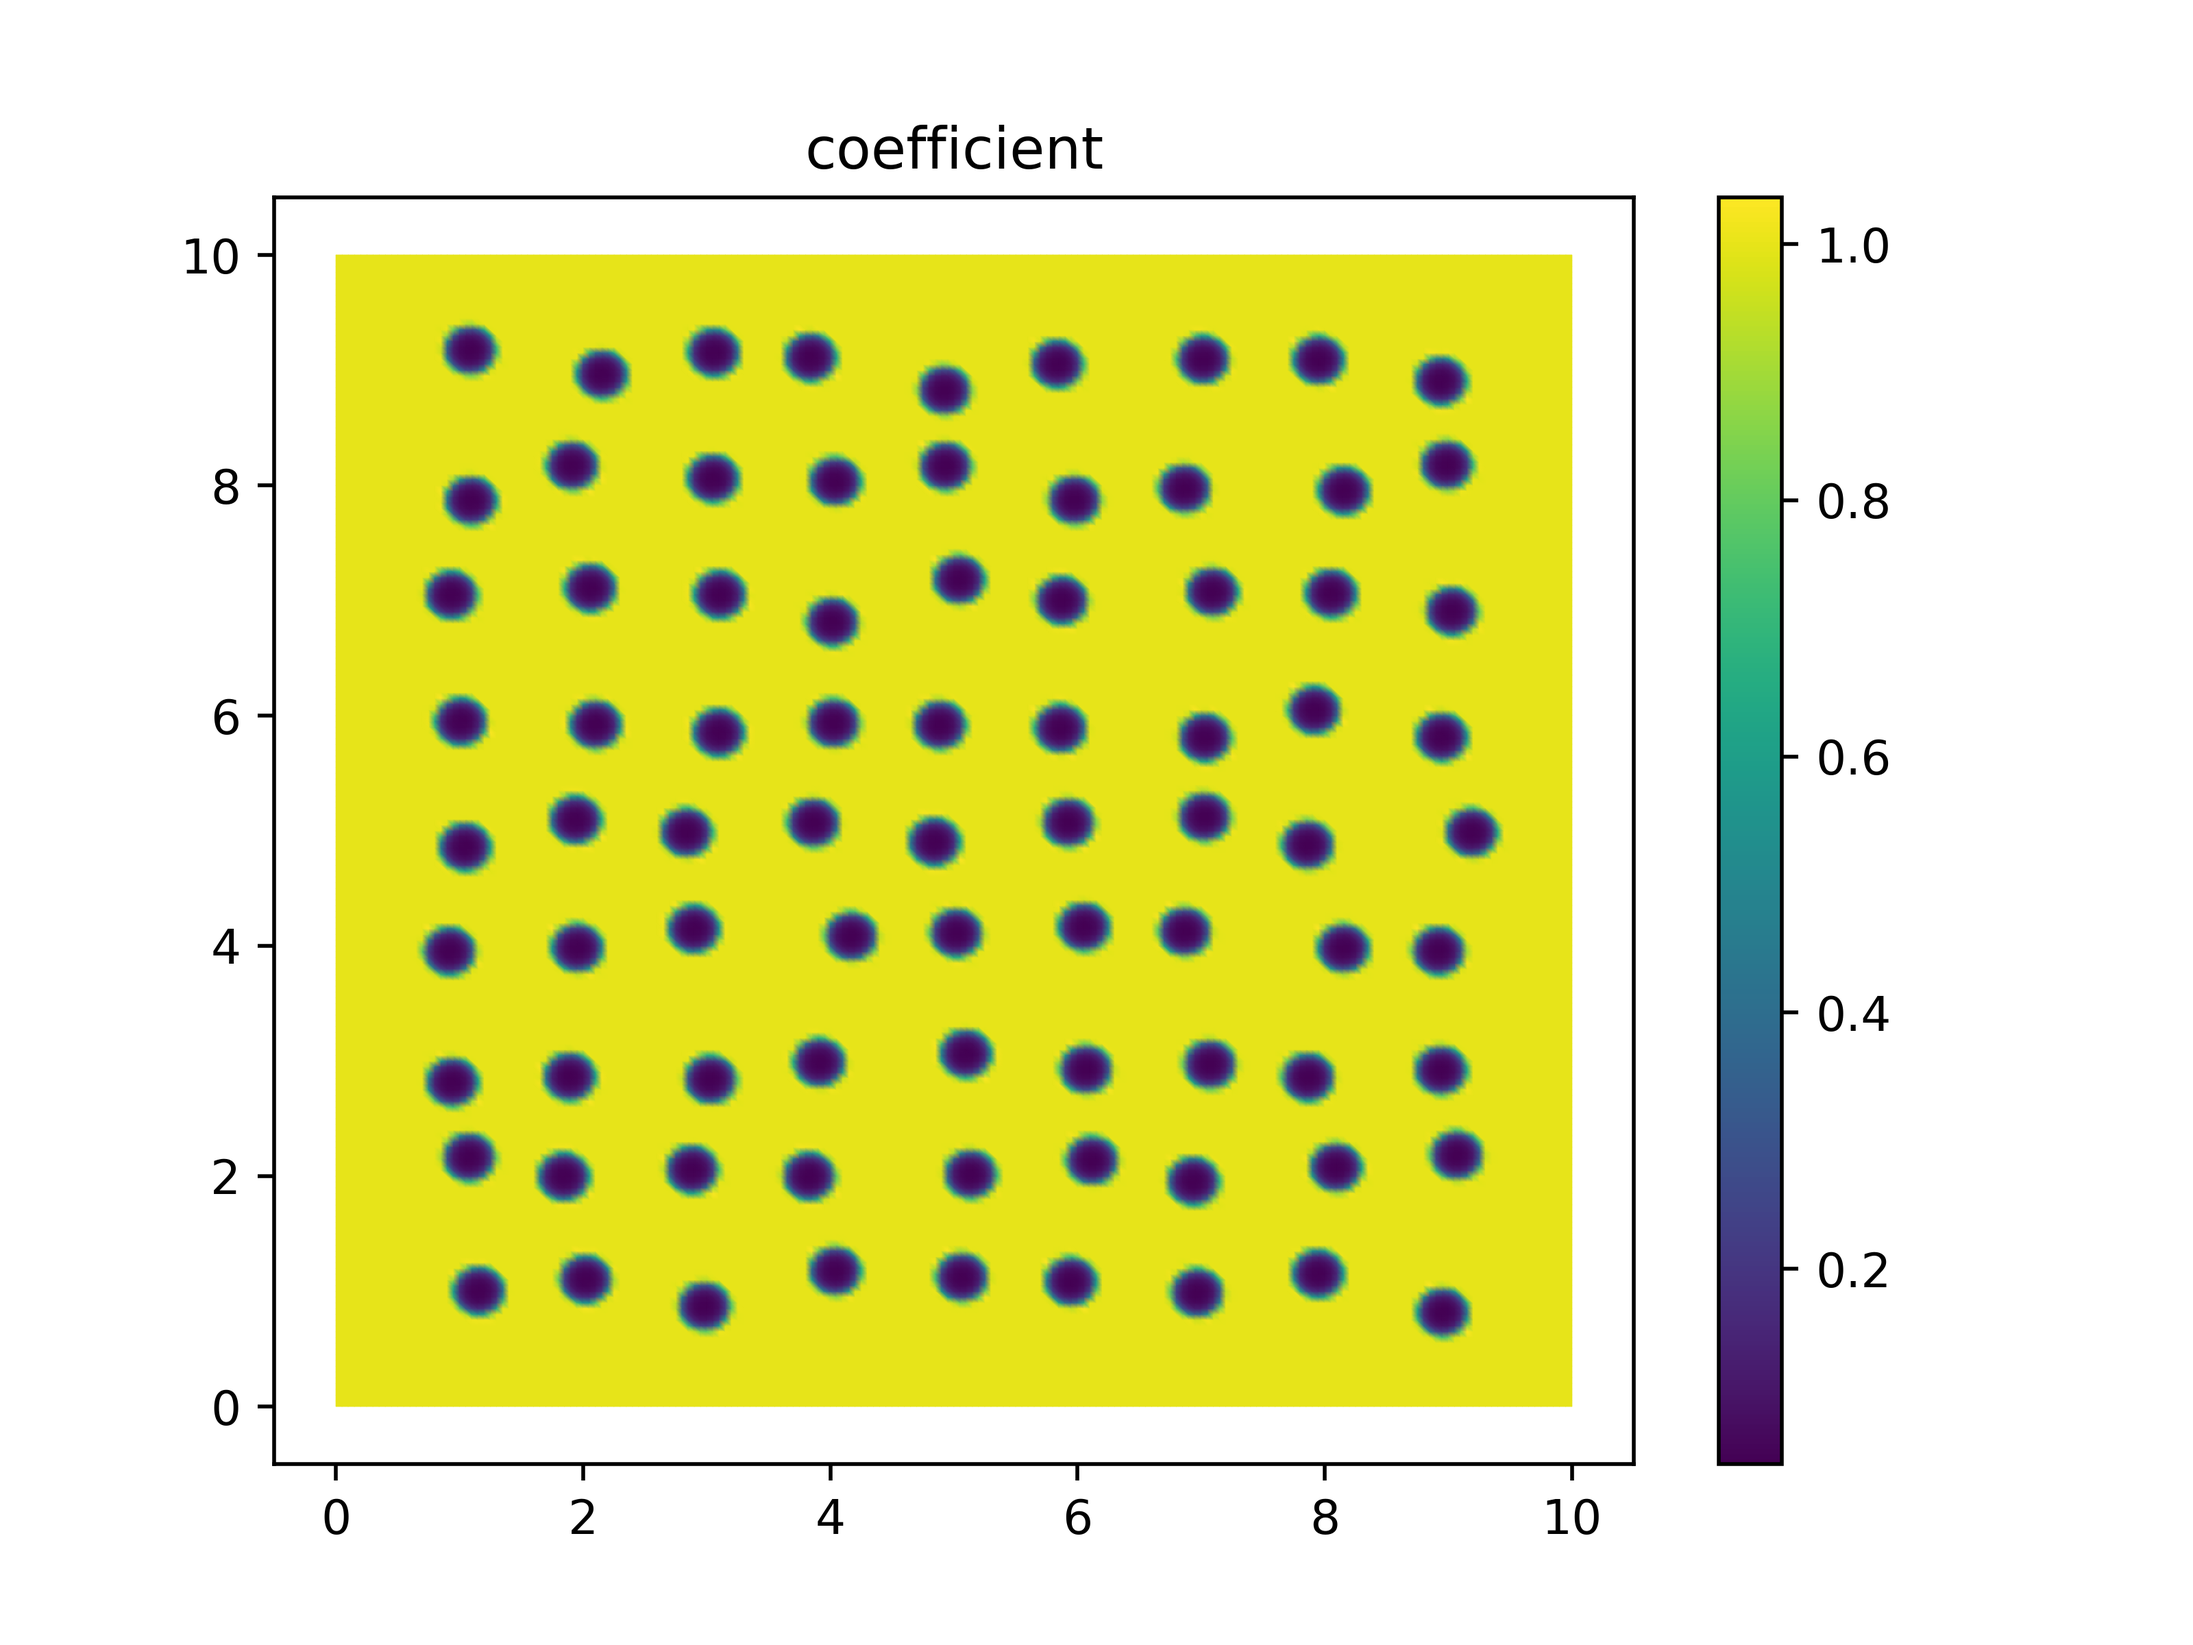
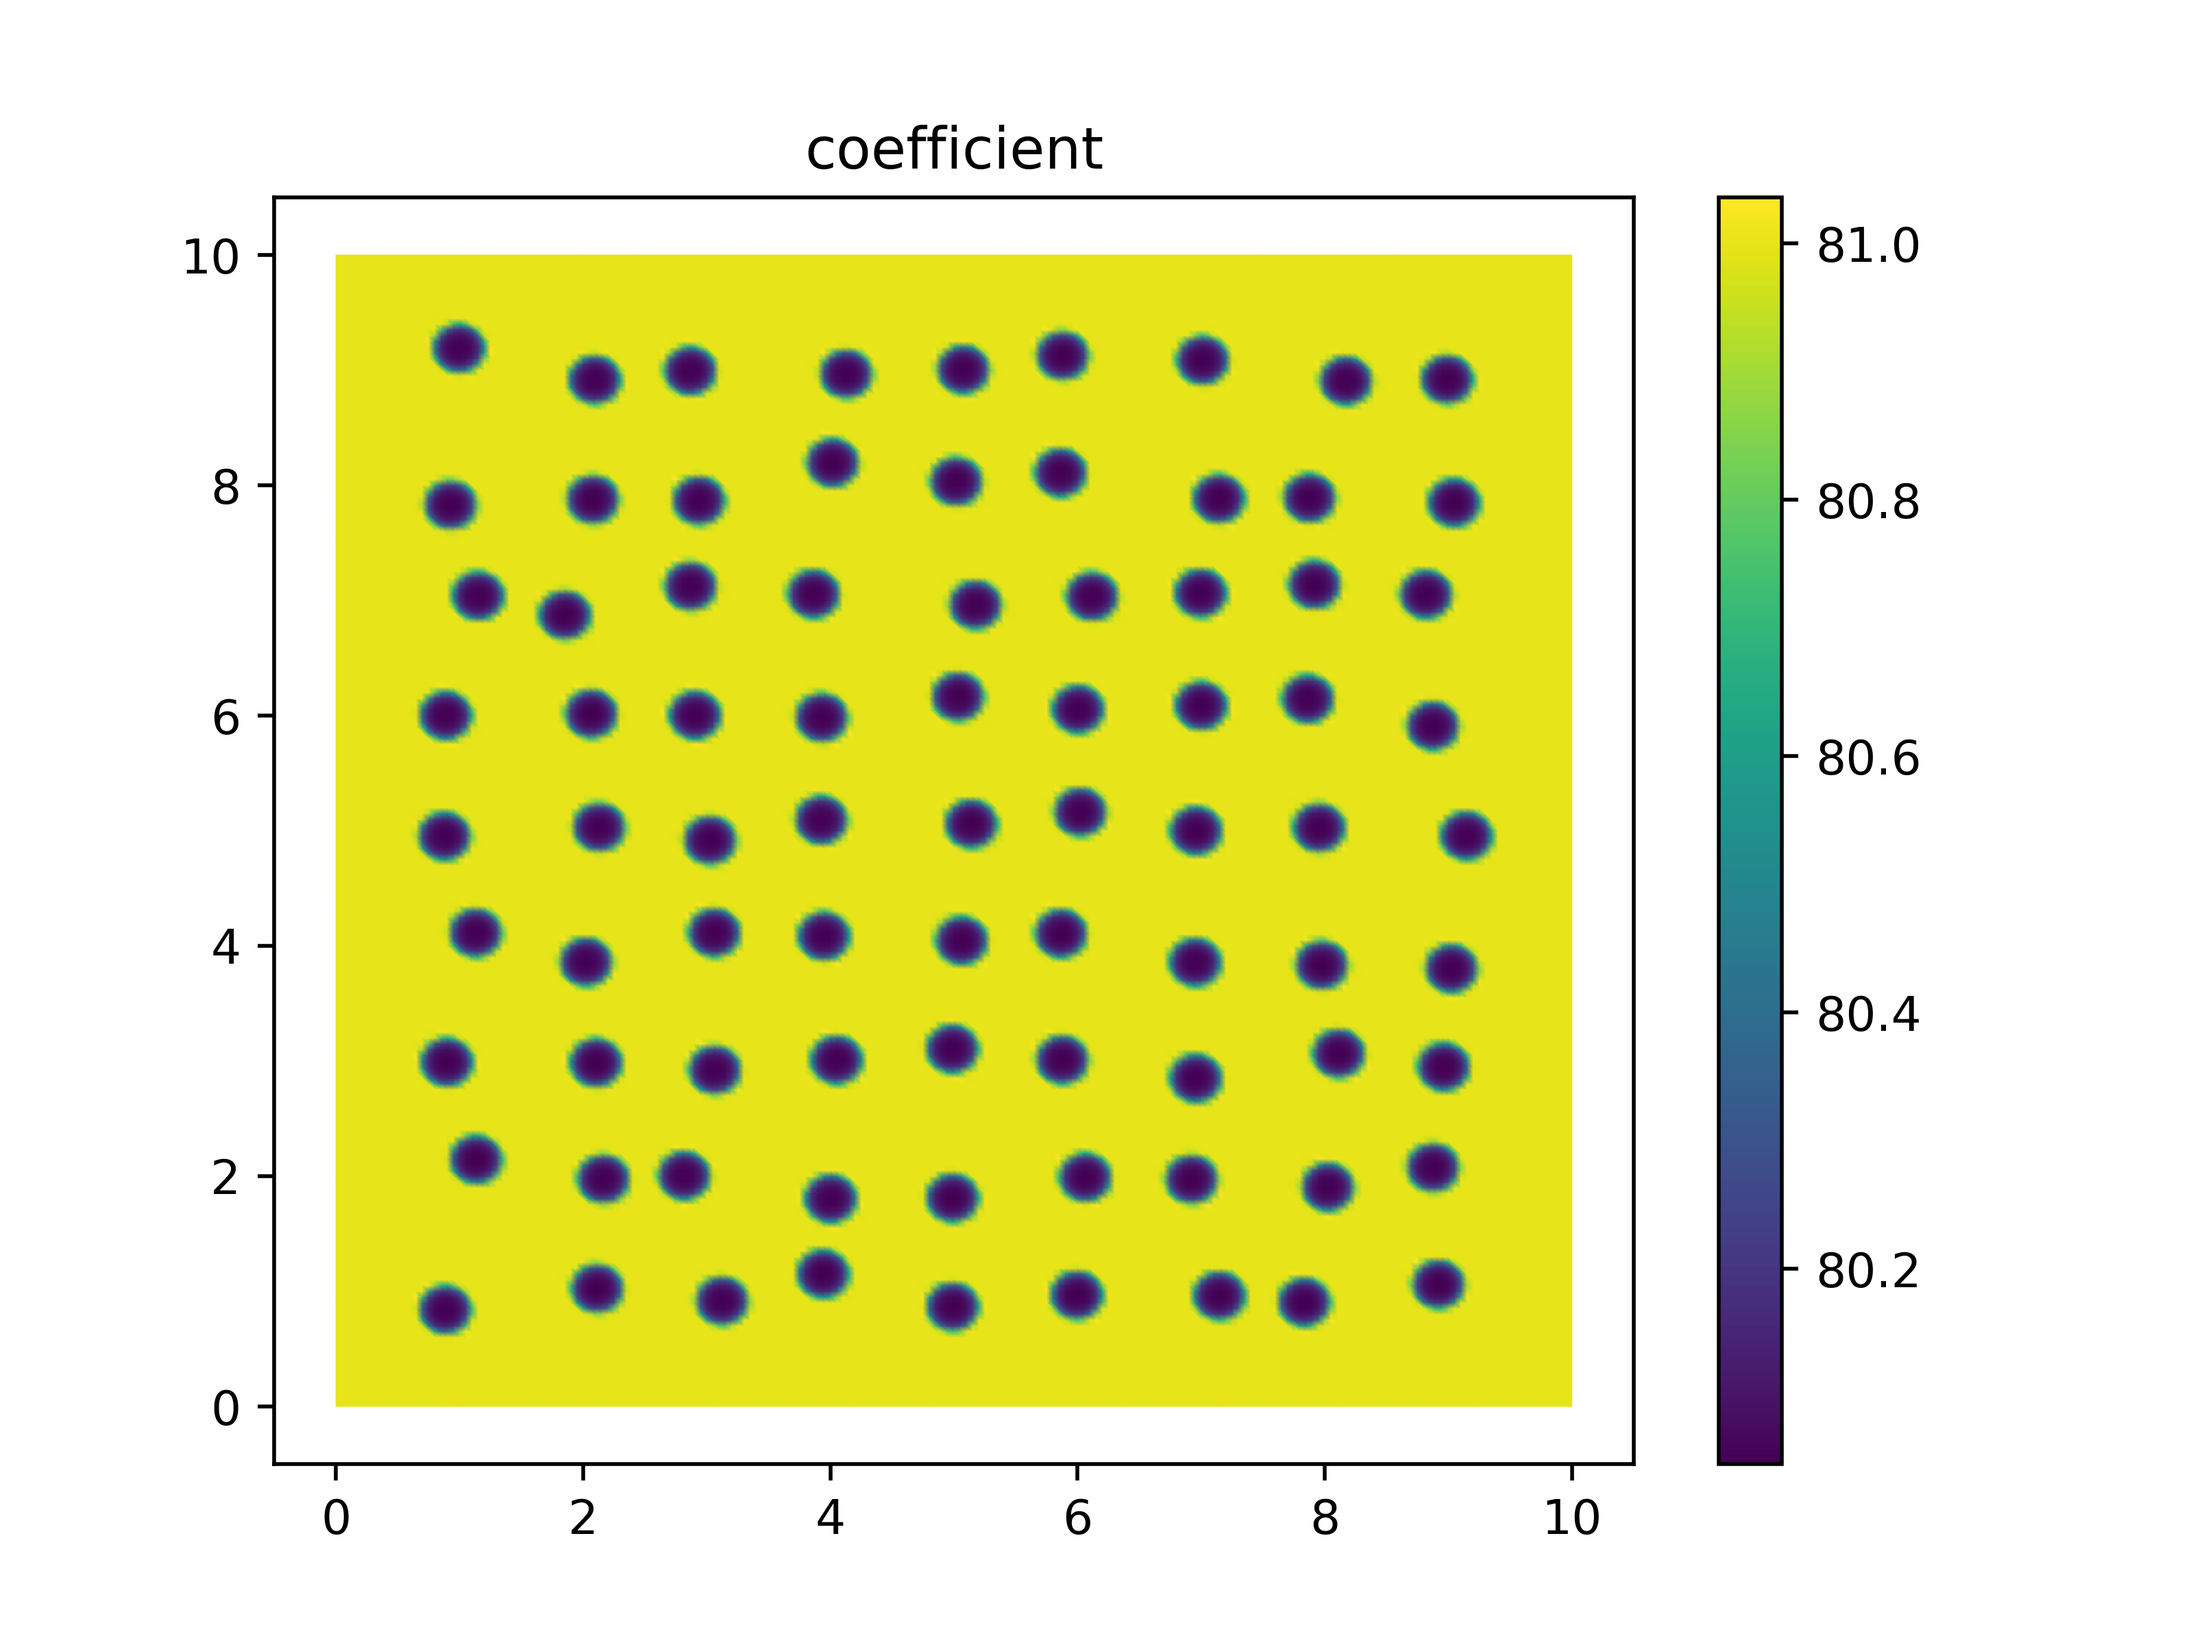
update

diff --git a/2d/test.py b/2d/test.py
@@ -20,15 +20,14 @@ U2 = np.random.uniform(size = nn**2)
 r = 0.2
 dn1 = r * np.sqrt(U2) * np.cos(2 * np.pi * U1)
 dn2 = r * np.sqrt(U2) * np.sin(2 * np.pi * U1)
-f_sum=0.0
+Fs=Constant(0.0)
 for i in range(0,nn):
    for j in range(0,nn):
       x_center=[i+1+dn1[i*nn+j],j+1+dn2[i*nn+j]]
-      f_sum=f_sum + conditional(((x-x_center[0])**2+(y-x_center[1])**2)**0.5>s,0,20*(1-((x-x_center[0])**2+(y-x_center[1])**2)/pow(s,2))**3*(3*((x-x_center[0])**2+(y-x_center[1])**2)+1))
-aexpr=1./(1+f_sum)
-aelt='CG'
-adeg=5
-A = assemble(interpolate(aexpr, FunctionSpace(mesh, aelt, adeg)))
+      fi= conditional(((x-x_center[0])**2+(y-x_center[1])**2)**0.5>s,0,20*(1-((x-x_center[0])**2+(y-x_center[1])**2)/pow(s,2))**3*(3*((x-x_center[0])**2+(y-x_center[1])**2)+1))
+      Fi=assemble(interpolate(1./(1.+fi), FunctionSpace(mesh, 'CG', 5)))
+      Fs=Fs+Fi
+A=assemble(interpolate(Fs, FunctionSpace(mesh, 'CG', 5)))
 # evaluate coefficient, save to file and plot
 plt.clf()
 fig, axes = plt.subplots()
